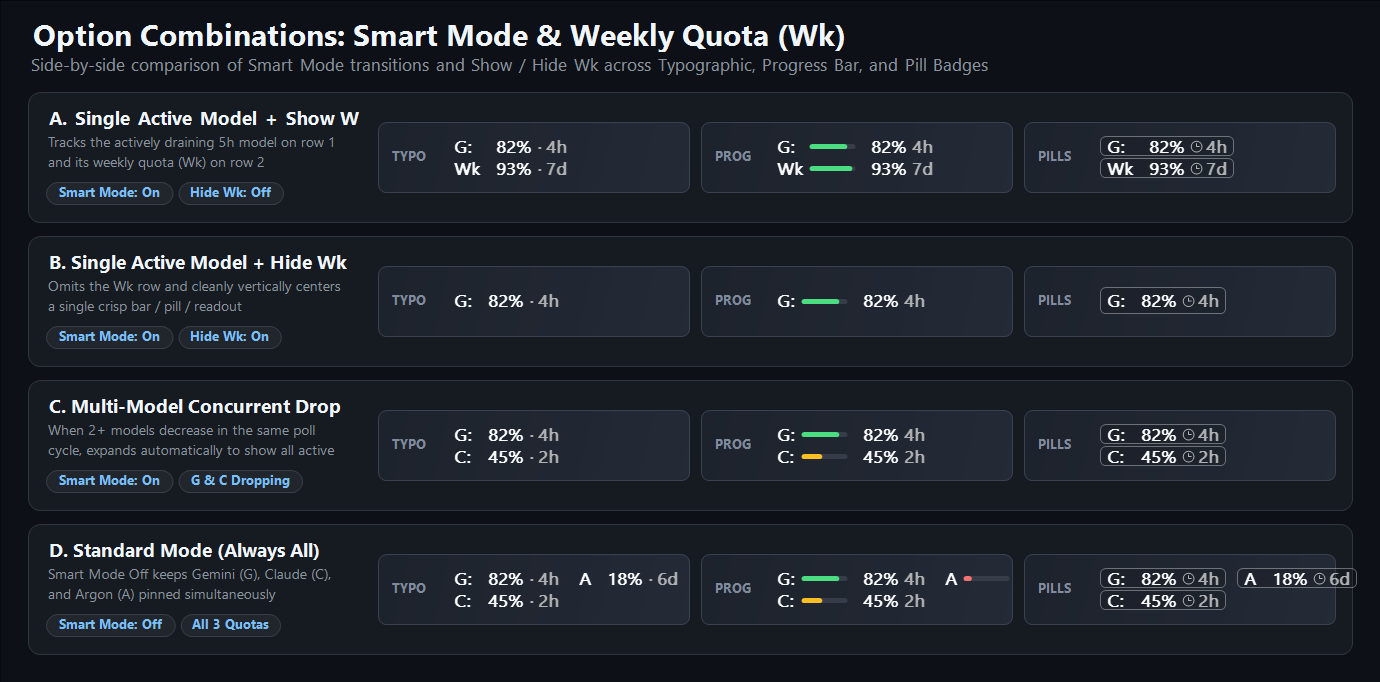
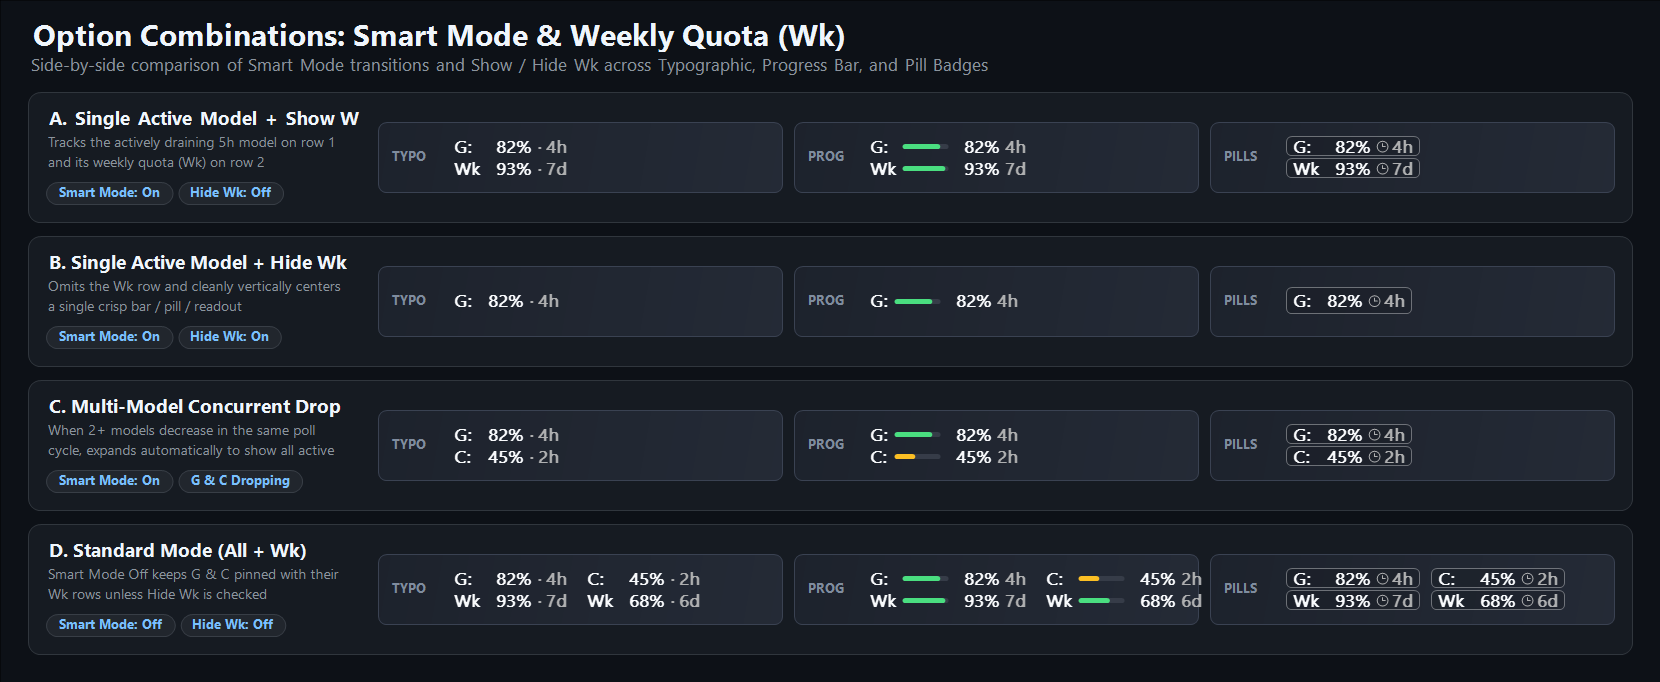
fix(layout): show weekly quotas in Standard Mode when Hide Weekly is disabled

diff --git a/src/AntigravityPlugin.cpp b/src/AntigravityPlugin.cpp
@@ -820,9 +820,8 @@ static int ComputeSideBySideMetrics(HDC hdc, const std::vector<QuotaDisplayEntry
                                     std::vector<ColumnLayoutMetrics>& outCols)
 {
     outCols.clear();
-    size_t count = std::min<size_t>(entries.size(), 3);
     int totalW = 0;
-    for (size_t i = 0; i < count; ++i)
+    for (size_t i = 0; i < entries.size(); ++i)
     {
         std::vector<const QuotaDisplayEntry*> singleRow = { &entries[i] };
         ColumnLayoutMetrics cm = ComputeColumnMetrics(hdc, singleRow, settings);
@@ -881,20 +880,25 @@ int CPluginItem::GetItemWidthEx(void* hDC) const
         return ComputeSideBySideMetrics(hdc, entries, settings, colGap, cols) + 4;
     }
 
-    if (entries.size() == 1 || entries.size() == 2)
+    if (entries.size() == 1)
     {
-        std::vector<const QuotaDisplayEntry*> colRows;
-        for (const auto& e : entries) colRows.push_back(&e);
+        std::vector<const QuotaDisplayEntry*> colRows = { &entries[0] };
         ColumnLayoutMetrics col = ComputeColumnMetrics(hdc, colRows, settings);
         return col.totalW + 4;
     }
 
-    // 3 entries (2+1 layout: Left col = entries[0] & entries[1], Right col = entries[2])
-    std::vector<const QuotaDisplayEntry*> leftRows = { &entries[0], &entries[1] };
-    std::vector<const QuotaDisplayEntry*> rightRows = { &entries[2] };
-    ColumnLayoutMetrics leftM = ComputeColumnMetrics(hdc, leftRows, settings);
-    ColumnLayoutMetrics rightM = ComputeColumnMetrics(hdc, rightRows, settings);
-    return leftM.totalW + colGap + rightM.totalW + 4;
+    // General 2-row column grid: col c holds entries[2*c] (top) and optional entries[2*c + 1] (bottom)
+    int totalW = 0;
+    size_t numCols = (entries.size() + 1) / 2;
+    for (size_t c = 0; c < numCols; ++c)
+    {
+        std::vector<const QuotaDisplayEntry*> colRows = { &entries[c * 2] };
+        if (c * 2 + 1 < entries.size()) colRows.push_back(&entries[c * 2 + 1]);
+        ColumnLayoutMetrics col = ComputeColumnMetrics(hdc, colRows, settings);
+        if (c > 0) totalW += colGap;
+        totalW += col.totalW;
+    }
+    return totalW + 4;
 }
 
 void CPluginItem::DrawItem(void* hDC, int x, int y, int w, int h, bool dark_mode)
@@ -1032,25 +1036,24 @@ void CPluginItem::DrawItem(void* hDC, int x, int y, int w, int h, bool dark_mode
             curX += cols[i].totalW + colGap;
         }
     }
-    else if (entries.size() == 2)
+    else
     {
-        std::vector<const QuotaDisplayEntry*> colRows = { &entries[0], &entries[1] };
-        ColumnLayoutMetrics m = ComputeColumnMetrics(hdc, colRows, settings);
+        // General 2-row column grid: col c holds entries[2*c] (top) and optional entries[2*c + 1] (bottom)
         int halfH = h / 2;
-        DrawSingleColumnEntry(hdc, x, y, m.totalW, halfH, entries[0], m, settings, lblColor, valColor, dark_mode);
-        DrawSingleColumnEntry(hdc, x, y + halfH, m.totalW, h - halfH, entries[1], m, settings, lblColor, valColor, dark_mode);
-    }
-    else // 3 entries: Left column = entries[0] (top) + entries[1] (bottom), Right column = entries[2] (top)
-    {
-        std::vector<const QuotaDisplayEntry*> leftRows = { &entries[0], &entries[1] };
-        std::vector<const QuotaDisplayEntry*> rightRows = { &entries[2] };
-        ColumnLayoutMetrics leftM = ComputeColumnMetrics(hdc, leftRows, settings);
-        ColumnLayoutMetrics rightM = ComputeColumnMetrics(hdc, rightRows, settings);
-
-        int halfH = h / 2;
-        DrawSingleColumnEntry(hdc, x, y, leftM.totalW, halfH, entries[0], leftM, settings, lblColor, valColor, dark_mode);
-        DrawSingleColumnEntry(hdc, x, y + halfH, leftM.totalW, h - halfH, entries[1], leftM, settings, lblColor, valColor, dark_mode);
-        DrawSingleColumnEntry(hdc, x + leftM.totalW + colGap, y, rightM.totalW, halfH, entries[2], rightM, settings, lblColor, valColor, dark_mode);
+        int curX = x;
+        size_t numCols = (entries.size() + 1) / 2;
+        for (size_t c = 0; c < numCols; ++c)
+        {
+            std::vector<const QuotaDisplayEntry*> colRows = { &entries[c * 2] };
+            if (c * 2 + 1 < entries.size()) colRows.push_back(&entries[c * 2 + 1]);
+            ColumnLayoutMetrics col = ComputeColumnMetrics(hdc, colRows, settings);
+            DrawSingleColumnEntry(hdc, curX, y, col.totalW, halfH, entries[c * 2], col, settings, lblColor, valColor, dark_mode);
+            if (c * 2 + 1 < entries.size())
+            {
+                DrawSingleColumnEntry(hdc, curX, y + halfH, col.totalW, h - halfH, entries[c * 2 + 1], col, settings, lblColor, valColor, dark_mode);
+            }
+            curX += col.totalW + colGap;
+        }
     }
 
     SetTextColor(hdc, prevColor);
@@ -1538,7 +1541,7 @@ static LRESULT CALLBACK OptionsDlgProc(HWND hWnd, UINT uMsg, WPARAM wParam, LPAR
         SendMessageW(hSmart, BM_SETCHECK, s.smartMode ? BST_CHECKED : BST_UNCHECKED, 0);
 
         HWND hHideWk = AddDlgButton(hWnd, hi, ctx->hFont, IDC_CHK_HIDE_WEEKLY,
-                                    L"Hide Weekly Quota  (Omit 'Wk' row when showing single model)",
+                                    L"Hide Weekly Quota  (Omit 'Wk' weekly quotas across models)",
                                     BS_AUTOCHECKBOX | WS_TABSTOP, 16, 36, 424, 22);
         SendMessageW(hHideWk, BM_SETCHECK, s.hideWeeklyQuota ? BST_CHECKED : BST_UNCHECKED, 0);
 
@@ -1947,9 +1950,11 @@ void CAntigravityPlugin::ParseAndUpdate(const std::string& jsonStr, bool updateS
 
         if (!m_settings.smartMode)
         {
-            // Standard Mode: Gemini, Claude, and Argon (if active)
+            // Standard Mode: show Gemini, Claude, and Argon (if active), paired with weekly quotas unless hidden
             entries.push_back(eG);
+            if (!m_settings.hideWeeklyQuota) entries.push_back(eGWk);
             entries.push_back(eC);
+            if (!m_settings.hideWeeklyQuota) entries.push_back(eCWk);
             if (hasArgon)
             {
                 entries.push_back(eA);
@@ -2087,15 +2092,19 @@ void CAntigravityPlugin::ParseAndUpdate(const std::string& jsonStr, bool updateS
             if (m_settings.displayStyle == STYLE_CLASSIC && hasArgon && m_settings.smartMode && m_lastShowA && !m_lastShowG && !m_lastShowC && !m_settings.hideWeeklyQuota)
                 line2 = L"Argon Weekly";
         }
-        else if (entries.size() == 2)
+        else
         {
-            line1 = fmtEntry(entries[0]);
-            line2 = fmtEntry(entries[1]);
-        }
-        else if (entries.size() >= 3)
-        {
-            line1 = fmtEntry(entries[0]) + L"  " + fmtEntry(entries[2]);
-            line2 = fmtEntry(entries[1]);
+            size_t numCols = (entries.size() + 1) / 2;
+            for (size_t c = 0; c < numCols; ++c)
+            {
+                if (!line1.empty()) line1 += L"  ";
+                line1 += fmtEntry(entries[c * 2]);
+                if (c * 2 + 1 < entries.size())
+                {
+                    if (!line2.empty()) line2 += L"  ";
+                    line2 += fmtEntry(entries[c * 2 + 1]);
+                }
+            }
         }
 
         // Update structured custom-draw state & text fallbacks for Item 0

diff --git a/tests/test_smart_transitions.cpp b/tests/test_smart_transitions.cpp
@@ -277,13 +277,10 @@ int main()
             std::wstring hl1 = item0->GetItemLableText();
             std::wstring hl2 = item0->GetItemValueText();
             assert(hl1.find(L"G:") != std::wstring::npos);
-            if (st == STYLE_MINIMAL_DOTS)
+            assert(hl1.find(L"Cl 75%") != std::wstring::npos);
+            if (st != STYLE_MINIMAL_DOTS)
             {
-                assert(hl1.find(L"Cl 75%") != std::wstring::npos);
-            }
-            else
-            {
-                assert(hl2.find(L"Cl 75%") != std::wstring::npos);
+                assert(hl2.find(L"100%") != std::wstring::npos);
             }
         }
 
@@ -344,6 +341,39 @@ int main()
         assert(item0->GetItemWidthEx(hdcMem) == stackedW);
         std::cout << "Single-line side-by-side weekly quota width tests passed (stacked="
                   << stackedW << "px, singleRow=" << sideBySideW << "px)!" << std::endl;
+    }
+
+    // 15e. Standard Mode (smartMode=false) respects hideWeeklyQuota=false by showing Wk for G & C
+    {
+        s.displayStyle = STYLE_CLASSIC;
+        s.smartMode = false;
+        s.hideWeeklyQuota = false;
+        s.hideResetTime = true;
+        s.hideLabels = false;
+        plugin.ApplySettings(s);
+        plugin.ParseAndUpdate(MakeJson(0.85, 0.75, 0.90), false);
+
+        std::wstring sl1 = item0->GetItemLableText();
+        std::wstring sl2 = item0->GetItemValueText();
+        assert(sl1.find(L"G:85%") != std::wstring::npos);
+        assert(sl1.find(L"C:75%") != std::wstring::npos);
+        assert(sl1.find(L"A:90%") != std::wstring::npos);
+        assert(sl2.find(L"Wk:100%") != std::wstring::npos);
+        assert(sl2.find(L"Wk:100%", sl2.find(L"Wk:100%") + 1) != std::wstring::npos); // Both G Wk and C Wk
+
+        item0->DrawItem(hdcMem, 0, 0, 400, 40, true);
+        int wStdAll = item0->GetItemWidthEx(hdcMem);
+
+        s.hideWeeklyQuota = true;
+        plugin.ApplySettings(s);
+        std::wstring sl1NoWk = item0->GetItemLableText();
+        std::wstring sl2NoWk = item0->GetItemValueText();
+        assert(sl2NoWk.find(L"Wk") == std::wstring::npos);
+        assert(sl2NoWk.find(L"C:75%") != std::wstring::npos);
+        int wStdNoWk = item0->GetItemWidthEx(hdcMem);
+        assert(wStdAll > wStdNoWk);
+        std::cout << "Standard Mode weekly quota visibility tests (withWk=" << wStdAll
+                  << "px, noWk=" << wStdNoWk << "px) passed!" << std::endl;
     }
 
     SelectObject(hdcMem, hOldFont);

diff --git a/README.md b/README.md
@@ -71,8 +71,8 @@ Combine **Visual Style + Smart Mode + Weekly (`Wk`) + Timers + Labels** into rea
 | **1. Minimal** | Tiny footprint & uncluttered taskbar | **Minimal Status Dots** + `Smart Mode: On` + `Hide model labels: On` + Host `Don't show '%': On` | Ultra-compact `● 82 \| ● 45` indicator; full details stay in tooltip |
 | **2. Clean** *(Daily Driver)* | Balanced single-model tracking | **Typographic Hierarchy** + `Smart Mode: On` + `Hide Wk: Off` + `Short form` timers + `Dim secondary: On` + `Align & Tabular: On` | Clean 2-line active readout (`G 82% · 4h` / `Wk 93% · 7d`) |
 | **3. Elegant** | Aesthetic Light/Dark glass taskbars | **Stacked Pill Badges** + `Smart Mode: On` + `Hide Wk: Off` + `Short form` + `Dim secondary: On` + `Align & Tabular: On` | Frosted translucent pills with aligned numbers and clock icons |
-| **4. GPT / Claude Power User** | Watching multiple AI quotas together | **Micro Progress Bars** + `Smart Mode: Off` + `Short form` + Host `Display Text`: `Gem:` / `GPT:` | Side-by-side color bars alerting yellow `<= 60%` & red `<= 20%` |
-| **5. Verbose** | Full telemetry without hovering | **Stacked Pill Badges** *(or Classic)* + `Smart Mode: Off` + `Long form (4h25m)` + `Dim secondary: Off` + Host `Display Text`: `G:` / `C:` | All models, exact minute timers, high-contrast labels & metrics |
+| **4. GPT / Claude Power User** | Watching multiple AI quotas together | **Micro Progress Bars** + `Smart Mode: Off` + `Hide Wk: On` + `Short form` + Host `Display Text`: `Gem:` / `GPT:` | Side-by-side color bars alerting yellow `<= 60%` & red `<= 20%` |
+| **5. Verbose** | Full telemetry without hovering | **Stacked Pill Badges** *(or Classic)* + `Smart Mode: Off` + `Hide Wk: Off` *(or `On` for 5h-only)* + `Long form (4h25m)` + `Dim secondary: Off` + Host `Display Text`: `G:` / `C:` | All models (with optional `Wk` rows), exact minute timers, high contrast |
 | **6. Capacity Focus** | Percentage & bar health only | **Micro Progress Bars** + `Smart Mode: On` + `Hide Weekly Quota (Wk): On` + `Hide Reset Time: On` | Single vertically centered health bar (`G: ▆▆▆░░ 52%`) |
 
 ---
@@ -89,7 +89,7 @@ Pairing **Smart Mode** with **Hide Weekly Quota (`Wk`)** controls how many items
 - **Smart Mode On + Show `Wk`**: Displays the currently draining 5-hour quota on Row 1 and its weekly (`Wk`) limit on Row 2 (`Typographic`, `Progress Bar`, or `Pill Badges`).
 - **Smart Mode On + Hide `Wk`**: Drops the `Wk` row and **vertically centers** the single active quota cleanly in the taskbar slot.
 - **Concurrent Multi-Model Drop**: When two or more models decrease in the same poll interval, Smart Mode automatically expands to track all dropping models simultaneously, then falls back cleanly when idle.
-- **Smart Mode Off (Standard)**: Pins Gemini, Claude, and Argon together (`2+1` layout) regardless of activity.
+- **Smart Mode Off (Standard)**: Pins Gemini, Claude, and Argon together — paired with each model's `Wk` row when **Hide Weekly Quota** is unchecked (`(G / Wk) | (C / Wk) | A`), or compact `(G / C) | A` when **Hide Weekly Quota** is checked.
 
 ### Reset Timers, Model Labels & Host Controls
 Mixing timer formatting, visual dimming, custom host text, and label removal lets you dial in exact information density:
